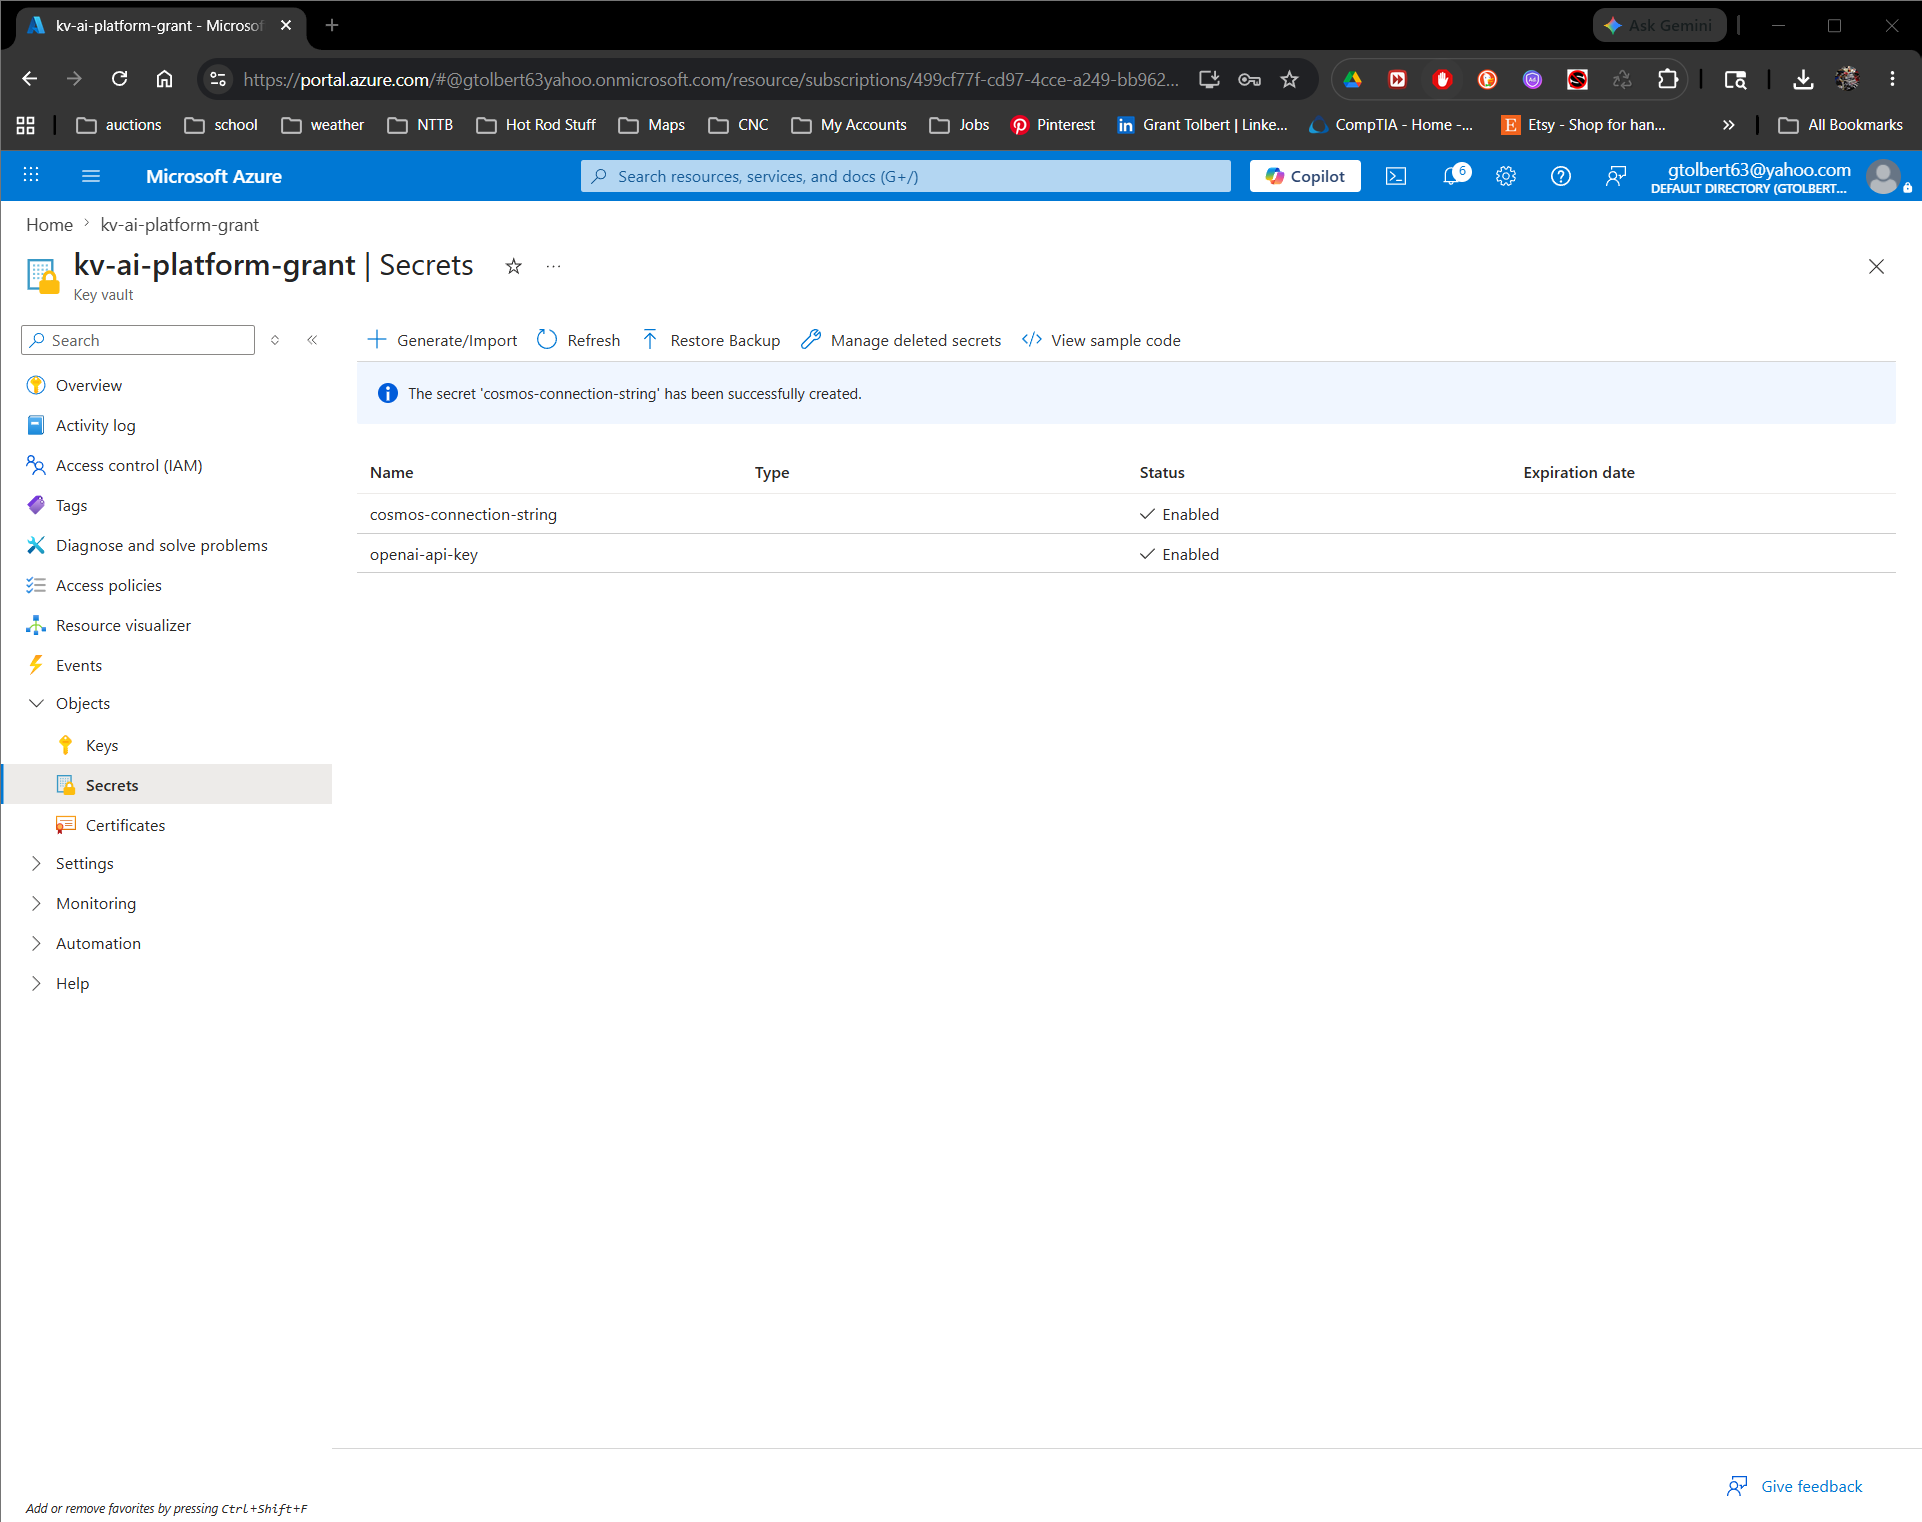
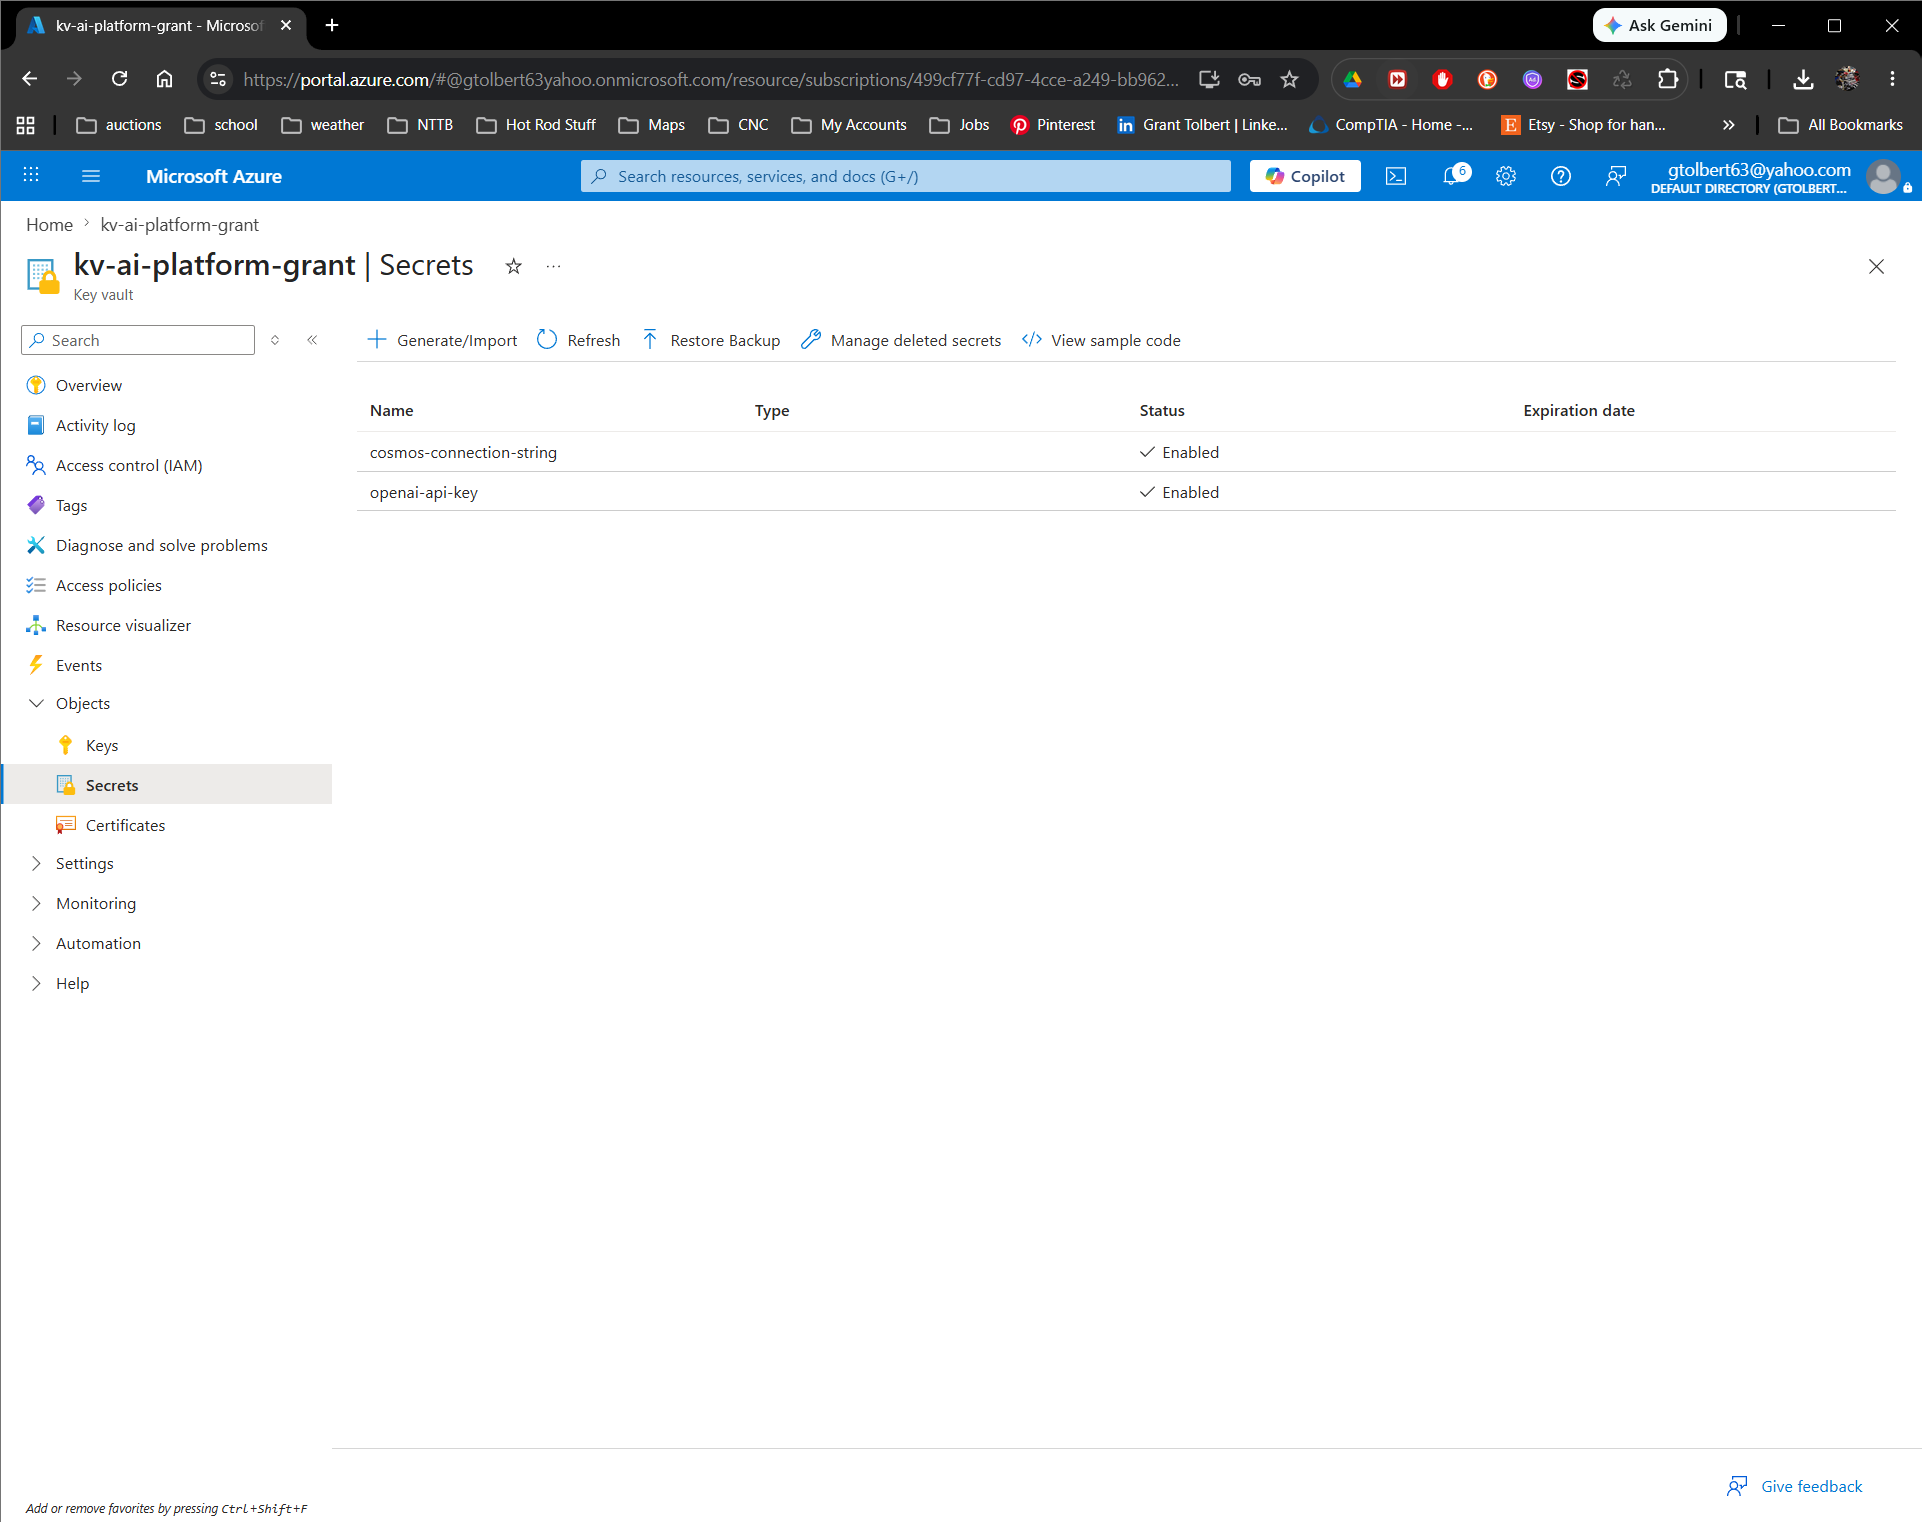
update

diff --git a/README.md b/README.md
@@ -33,3 +33,120 @@ An Azure Container Registry (ACR) instance was deployed to provide a private con
 - SKU: Basic
 - Authentication: Azure AD
 - Purpose: Container image storage and distribution
+## Phase 3 – Azure Container Apps
+
+### Objective
+
+Deploy a containerized application using Azure Container Apps and validate external HTTP access.
+
+### Components Deployed
+
+- Azure Container Apps Environment
+- Azure Container App
+- Log Analytics Workspace
+- External HTTP Ingress
+
+### Configuration
+
+| Setting | Value |
+|----------|--------|
+| Region | East US |
+| Workload Profile | Consumption |
+| CPU | 0.25 |
+| Memory | 0.5 Gi |
+| Ingress | Enabled |
+| Target Port | 80 |
+
+### Validation
+
+The application was successfully deployed and exposed through a public HTTPS endpoint.
+
+**Application URL Validation**
+
+![Container App Running](screenshots/07-container-app-running.png)
+
+### Troubleshooting Encountered
+
+During deployment, the initial Container Apps Environment entered a `ScheduledForDelete` state which prevented new application deployments.
+
+Resolution:
+
+- Created replacement environment `cae-ai-platform-v2`
+- Redeployed application
+- Verified successful application availability
+
+### Skills Demonstrated
+
+- Azure Container Apps
+- Serverless Containers
+- Application Ingress
+- Azure Monitoring Integration
+- Deployment Troubleshooting
+## Phase 4 – Managed Identity and Azure Key Vault
+
+### Objective
+
+Implement secure secret management using Azure Key Vault and System Assigned Managed Identity.
+
+### Architecture
+
+```text
+Container App
+      │
+Managed Identity
+      │
+RBAC Authorization
+      │
+Azure Key Vault
+      │
+Application Secrets
+```
+
+### Managed Identity Configuration
+
+System Assigned Managed Identity was enabled on the Azure Container App.
+
+![Managed Identity Enabled](screenshots/08-managed-identity-enabled.png)
+
+### Azure Key Vault
+
+Created:
+
+- kv-ai-platform-grant
+
+Stored Secrets:
+
+- openai-api-key
+- cosmos-connection-string
+
+![Key Vault Overview](screenshots/09-keyvault-overview.png)
+
+![Key Vault Secrets](screenshots/10-keyvault-secrets.png)
+
+### RBAC Authorization
+
+Assigned:
+
+| Role | Principal |
+|--------|-----------|
+| Key Vault Secrets User | cae-ai-platform-v2 |
+
+This allows the application to securely retrieve secrets without storing credentials in code.
+
+![Key Vault RBAC](screenshots/11-keyvault-rbac.png)
+
+### Security Benefits
+
+- No hardcoded secrets
+- Managed Identity authentication
+- Role-Based Access Control (RBAC)
+- Centralized secret management
+- Production-ready Azure security pattern
+
+### Skills Demonstrated
+
+- Azure Key Vault
+- Managed Identity
+- RBAC
+- Zero-Trust Security
+- Secretless Authentication
